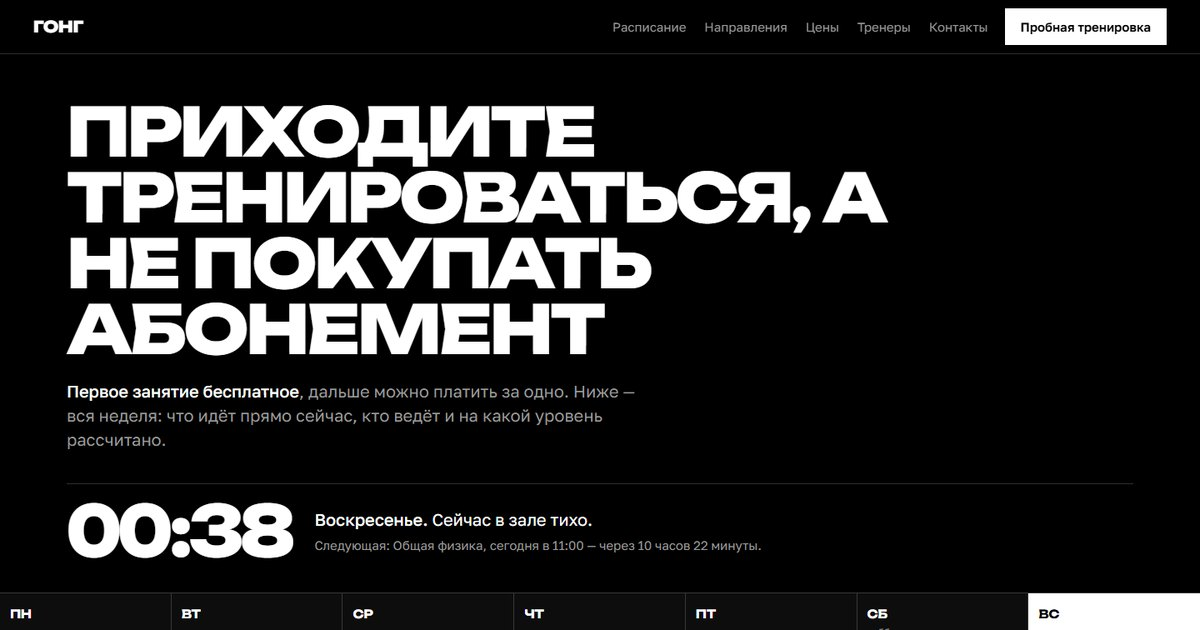
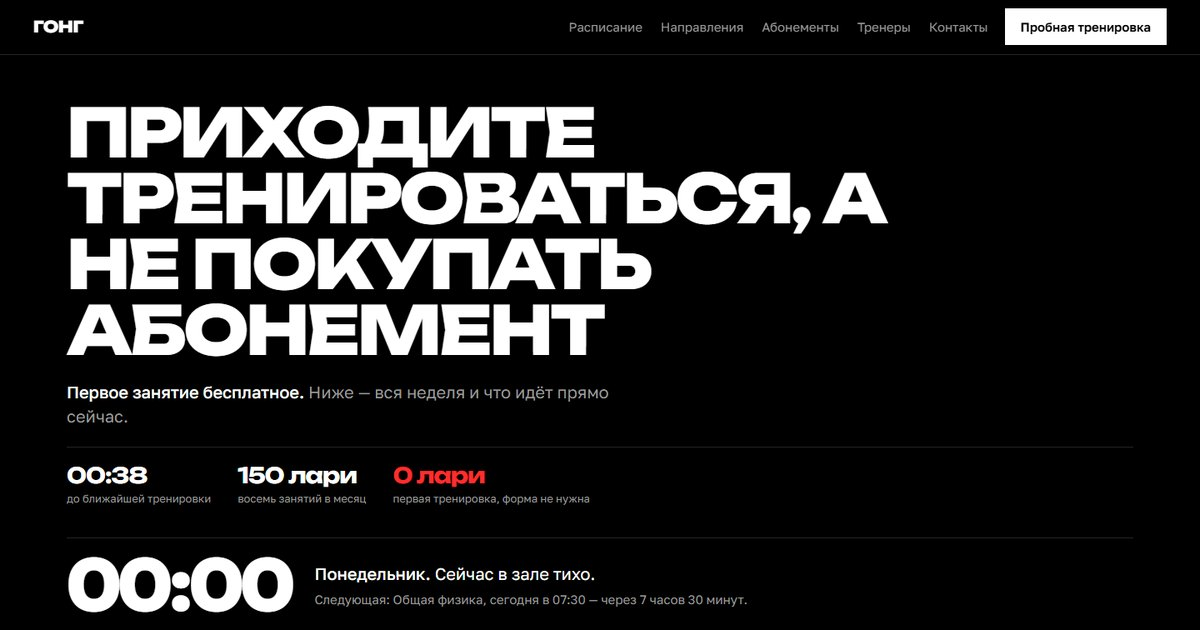
Новая подача: карточки, короче текст, движение

diff --git a/index.html b/index.html
@@ -4,7 +4,7 @@
 <meta charset="utf-8">
 <meta name="viewport" content="width=device-width, initial-scale=1, viewport-fit=cover">
 <title>Гонг — зал единоборств в Батуми (демо open-sites.io)</title>
-<meta name="description" content="Демо-сайт студии open-sites.io: зал единоборств «Гонг» на улице Чавчавадзе в Батуми. Расписание недели с живой отметкой «идёт сейчас», бокс, грэпплинг, ММА, детские группы. Бизнес вымышленный.">
+<meta name="description" content="Демо-сайт студии open-sites.io: зал единоборств «Гонг» на улице Чавчавадзе в Батуми. Расписание недели с живой отметкой «идёт сейчас», бокс, грэпплинг, ММА, детские группы. ">
 <meta name="robots" content="noindex">
 <meta name="theme-color" content="#000000">
 <link rel="canonical" href="https://fr33roman.github.io/gong/">
@@ -32,7 +32,11 @@
   --white:#fff;
   --ash:#9A9A9A;      /* второстепенный текст, 6,6:1 */
   --red:#FF2D2D;      /* только «идёт сейчас» */
-  --line:rgba(255,255,255,.18);
+  --line:rgba(255,255,255,.14);
+  --card:#141414;     /* карточка: светлее чистого чёрного */
+  --shadow-sm:0 10px 26px -14px rgba(0,0,0,.9);
+  --shadow:0 20px 44px -18px rgba(0,0,0,1);
+  --r:16px;
   --disp:"Unbounded","Segoe UI",system-ui,sans-serif;
   --text:"Golos Text","Segoe UI",system-ui,sans-serif;
   --gut:40px;
@@ -73,7 +77,7 @@ button,input,select,textarea{font:inherit;color:inherit}
 .top{position:sticky;top:0;z-index:50;display:flex;align-items:center;gap:20px;
   padding:10px var(--gut);background:rgba(0,0,0,.92);border-bottom:1px solid var(--line);
   backdrop-filter:blur(8px)}
-.mark{font-family:var(--disp);font-weight:800;font-size:19px;letter-spacing:-.02em;text-decoration:none}
+.mark{font-family:var(--disp);font-weight:800;font-size:19px;letter-spacing:-.02em;text-decoration:none;min-height:44px;display:inline-flex;align-items:center;padding:8px 0}
 .nav{display:none;gap:22px;margin-left:auto;font-size:15px;color:var(--ash)}
 .nav a{text-decoration:none}
 .nav a:hover{color:var(--white)}
@@ -93,6 +97,20 @@ h1{font-family:var(--disp);font-weight:800;font-size:clamp(30px,5.6vw,92px);line
   letter-spacing:-.045em;max-width:15ch;text-transform:uppercase}
 .hero__lead{margin-top:20px;font-size:clamp(17px,1.5vw,20px);line-height:1.45;max-width:58ch;color:var(--ash)}
 .hero__lead b{color:var(--white);font-weight:500}
+/* Три цифры рядом: самое важное читается за секунду */
+.trust{display:flex;flex-wrap:wrap;gap:14px 32px;margin-top:22px;padding-top:20px;border-top:1px solid var(--line)}
+.trust div{min-width:120px}
+.trust b{display:block;font-family:var(--disp);font-weight:700;font-size:26px;letter-spacing:-.04em;line-height:1}
+.trust b.is-red{color:var(--red)}
+.trust span{display:block;margin-top:7px;color:var(--ash);font-size:13px;line-height:1.35}
+
+/* Появление блоков: 700 мс, один раз. Без скрипта всё видно сразу. */
+.js .reveal{opacity:0;transform:translateY(24px);transition:opacity .7s ease,transform .7s ease}
+.js .reveal.in{opacity:1;transform:none}
+@media (prefers-reduced-motion:reduce){
+  .js .reveal{opacity:1;transform:none;transition:none}
+  .dir:hover,.co:hover{transform:none}
+}
 
 /* живая строка */
 .live{margin-top:clamp(24px,3vw,38px);border-top:1px solid var(--line);padding-top:18px;
@@ -152,41 +170,59 @@ h1{font-family:var(--disp);font-weight:800;font-size:clamp(30px,5.6vw,92px);line
 }
 
 /* ============ направления ============ */
-.dirs{border-top:1px solid var(--white);margin-top:24px}
-.dir{padding:18px 0;border-bottom:1px solid var(--line);display:grid;grid-template-columns:1fr;gap:6px}
-@media (min-width:860px){.dir{grid-template-columns:240px minmax(0,1fr);gap:28px;align-items:baseline}}
+.dirs{display:grid;grid-template-columns:1fr;gap:14px;margin-top:24px}
+@media (min-width:640px){.dirs{grid-template-columns:repeat(2,minmax(0,1fr))}}
+@media (min-width:1100px){.dirs{grid-template-columns:repeat(4,minmax(0,1fr))}}
+.dir{display:grid;gap:8px;background:var(--card);border:1px solid var(--line);border-radius:var(--r);
+  box-shadow:var(--shadow-sm);padding:20px 18px;transition:transform .3s ease,box-shadow .3s ease,border-color .3s ease}
+.dir:hover{transform:translateY(-6px);box-shadow:var(--shadow);border-color:rgba(255,45,45,.45)}
 .dir p{color:var(--ash);font-size:15px;line-height:1.5}
 
 /* ============ цены ============ */
-.rows{border-top:1px solid var(--white);margin-top:24px}
-.r{display:grid;grid-template-columns:minmax(0,1fr) auto;grid-template-areas:"n s" "a b";
-  column-gap:16px;row-gap:3px;padding:14px 0;border-bottom:1px solid var(--line);align-items:baseline}
+.rows{max-width:900px;margin-top:24px;background:var(--card);border:1px solid var(--line);
+  border-radius:var(--r);box-shadow:var(--shadow-sm);overflow:hidden}
+/* Наводишь на строку — соседние гаснут: помогает не потерять нужную глазами */
+.rows:hover .r{opacity:.42}
+.rows .r:hover{opacity:1;background:rgba(255,45,45,.07)}
+@media (hover:none){.rows:hover .r{opacity:1}}
+.r{display:grid;grid-template-columns:minmax(0,1fr) auto;grid-template-areas:"n s" "a s" "b s";
+  column-gap:16px;row-gap:2px;padding:14px 20px;border-bottom:1px solid var(--line);align-items:baseline;
+  transition:opacity .3s ease,background .3s ease}
+.r:last-child{border-bottom:0}
 .r__n{grid-area:n;font-size:17px;font-weight:500;line-height:1.25}
-.r__s{grid-area:s;font-family:var(--disp);font-weight:700;font-size:17px;white-space:nowrap;letter-spacing:-.03em}
+.r__s{grid-area:s;align-self:center;font-family:var(--disp);font-weight:700;font-size:20px;
+  white-space:nowrap;letter-spacing:-.03em}
 .r__a{grid-area:a}
-.r__b{grid-area:b;text-align:right}
+.r__b{grid-area:b}
 .r__a,.r__b{color:var(--ash);font-size:13px;line-height:1.35}
 @media (min-width:760px){
-  .r{grid-template-columns:minmax(0,1fr) 250px 170px 130px;grid-template-areas:"n a b s";row-gap:0}
+  .r{grid-template-columns:minmax(0,1fr) 230px 150px 120px;grid-template-areas:"n a b s";row-gap:0;padding:14px 22px}
   .r__a,.r__b{font-size:14px;text-align:left}
   .r__s{text-align:right;font-size:19px}
 }
 
 /* ============ тренеры ============ */
-.coaches{border-top:1px solid var(--white);margin-top:24px}
-.co{display:grid;grid-template-columns:minmax(0,1fr) auto;gap:2px 16px;padding:16px 0;
-  border-bottom:1px solid var(--line);align-items:baseline}
+.coaches{display:grid;grid-template-columns:1fr;gap:14px;margin-top:24px}
+@media (min-width:620px){.coaches{grid-template-columns:repeat(2,minmax(0,1fr))}}
+@media (min-width:1100px){.coaches{grid-template-columns:repeat(4,minmax(0,1fr))}}
+.co{display:grid;background:var(--card);border:1px solid var(--line);border-radius:var(--r);
+  box-shadow:var(--shadow-sm);padding:20px 18px;gap:6px;
+  transition:transform .3s ease,box-shadow .3s ease}
+.co:hover{transform:translateY(-6px);box-shadow:var(--shadow)}
 .co__n{font-family:var(--disp);font-weight:700;font-size:clamp(22px,2.6vw,34px);letter-spacing:-.04em;line-height:1}
-.co__d{color:var(--ash);font-size:14px;white-space:nowrap}
-.co__s{grid-column:1/-1;color:var(--ash);font-size:15px}
-@media (min-width:760px){.co{grid-template-columns:250px minmax(0,1fr) auto}.co__s{grid-column:2/3}}
+.co__d{display:inline-block;margin-top:8px;padding:5px 11px;border-radius:999px;
+  background:rgba(255,255,255,.08);color:var(--white);font-size:13px;white-space:nowrap;justify-self:start}
+.co__s{color:var(--ash);font-size:15px;line-height:1.4}
 
 /* ============ зал ============ */
 .hall{display:grid;grid-template-columns:1fr;gap:26px;margin-top:24px}
 @media (min-width:900px){.hall{grid-template-columns:minmax(0,1fr) minmax(0,1fr);gap:40px;align-items:start}}
-.hall ul{border-top:1px solid var(--white)}
-.hall li{padding:13px 0;border-bottom:1px solid var(--line);font-size:16px}
-.hall img{width:100%;object-fit:cover;filter:grayscale(1) contrast(1.22) brightness(.86)}
+.hall ul{display:grid;gap:10px}
+.hall li{position:relative;background:var(--card);border:1px solid var(--line);border-radius:12px;
+  padding:14px 16px 14px 40px;font-size:16px;line-height:1.4}
+.hall li::before{content:"";position:absolute;left:16px;top:20px;width:11px;height:2px;background:var(--red)}
+.hall img{width:100%;object-fit:cover;border-radius:var(--r);
+  filter:grayscale(1) contrast(1.18) brightness(.9)}
 .hall .ph1 img{height:clamp(200px,26vw,320px)}
 .hall .ph2 img{height:clamp(140px,15vw,190px);margin-top:10px}
 figcaption{margin-top:10px;color:var(--ash);font-size:13px;line-height:1.45}
@@ -215,13 +251,14 @@ fieldset.f{border:0;padding:0;margin:0}
 .consent label{padding:10px 0;font-size:15px;line-height:1.5;cursor:pointer}
 .send{grid-column:1/-1;display:flex;flex-wrap:wrap;align-items:center;gap:14px}
 .send__hint{color:var(--ash);font-size:14px}
-.done{background:var(--coal);border:1px solid var(--line);padding:28px}
+.done{background:var(--card);border:1px solid var(--line);border-radius:var(--r);
+  box-shadow:var(--shadow-sm);padding:28px}
 .done__b{font-family:var(--disp);font-weight:700;font-size:clamp(22px,3vw,32px);letter-spacing:-.03em;line-height:1.1}
 .done p+p{margin-top:12px}
 .noscript{grid-column:1/-1;color:var(--ash);font-size:15px}
-.side dl{border-top:1px solid var(--white)}
-.side div{padding:12px 0;border-bottom:1px solid var(--line)}
-.side dt{color:var(--ash);font-size:13px}
+.side dl{display:grid;gap:10px}
+.side div{background:var(--card);border:1px solid var(--line);border-radius:12px;padding:14px 16px}
+.side dt{color:var(--red);font-size:12px;letter-spacing:.1em;text-transform:uppercase}
 .side dd{margin-top:3px;font-size:16px;line-height:1.4}
 
 /* ============ подвал ============ */
@@ -241,7 +278,7 @@ fieldset.f{border:0;padding:0;margin:0}
   <nav class="nav" aria-label="Разделы">
     <a href="#raspisanie">Расписание</a>
     <a href="#napravleniya">Направления</a>
-    <a href="#tseny">Цены</a>
+    <a href="#tseny">Абонементы</a>
     <a href="#trenery">Тренеры</a>
     <a href="#zapis">Контакты</a>
   </nav>
@@ -252,8 +289,13 @@ fieldset.f{border:0;padding:0;margin:0}
   <!-- ============ 1. герой ============ -->
   <section class="hero" aria-labelledby="h1">
     <h1 id="h1">Приходите тренироваться, а не покупать абонемент</h1>
-    <p class="hero__lead"><b>Первое занятие бесплатное</b>, дальше можно платить за одно.
-      Ниже — вся неделя: что идёт прямо сейчас, кто ведёт и на какой уровень рассчитано.</p>
+    <p class="hero__lead"><b>Первое занятие бесплатное.</b> Ниже — вся неделя и что идёт прямо сейчас.</p>
+
+    <div class="trust">
+      <div><b>00:38</b><span>до ближайшей тренировки</span></div>
+      <div><b>150 лари</b><span>восемь занятий в месяц</span></div>
+      <div><b class="is-red">0 лари</b><span>первая тренировка, форма не нужна</span></div>
+    </div>
 
     <div class="live" id="live" hidden>
       <p class="live__t" id="liveTime">—</p>
@@ -326,39 +368,36 @@ fieldset.f{border:0;padding:0;margin:0}
       </div>
 
     </div>
-    <p class="week__cap">Время батумское. Зал работает с 7:00 до 22:00, в воскресенье до 18:00.
-      Расписание на неделю не меняется — если тренер заболел, пишем в чат группы.</p>
+    <p class="week__cap">Время батумское. Зал открыт 7:00–22:00, в воскресенье до 18:00.</p>
   </section>
 
   <!-- ============ 3. направления ============ -->
-  <section class="sec" id="napravleniya" aria-labelledby="h-n">
+  <section class="sec reveal" id="napravleniya" aria-labelledby="h-n">
     <div class="sec__in">
-      <h2 id="h-n">Что здесь есть</h2>
+      <h2 id="h-n">Направления</h2>
       <ul class="dirs">
         <li class="dir"><h3>Бокс, взрослые</h3>
-          <p>90 минут: разминка, лапы, мешки, спарринг по желанию. Берём с нуля. Нужны форма и вода —
-            перчатки и бинты первый месяц даём свои.</p></li>
+          <p>90 минут: разминка, лапы, мешки, спарринг по желанию. Берём с нуля.</p></li>
         <li class="dir"><h3>Кикбоксинг</h3>
-          <p>90 минут, руки и ноги. Просим сначала месяц бокса или свой опыт: иначе травмы на ровном месте.</p></li>
+          <p>90 минут, руки и ноги. Нужен месяц бокса или свой опыт.</p></li>
         <li class="dir"><h3>Грэпплинг</h3>
           <p>90 минут в партере, без ударов. Самое безопасное, с чего взрослому можно начать.</p></li>
         <li class="dir"><h3>ММА</h3>
-          <p>90 минут, стойка и партер вместе. Только тем, кто уже год занимается одним из направлений.</p></li>
+          <p>90 минут, стойка и партер. Тем, кто занимается год и больше.</p></li>
         <li class="dir"><h3>Женская группа</h3>
           <p>60 минут: бокс без спаррингов, много техники и физики. Ведёт Нана.</p></li>
         <li class="dir"><h3>Дети 7–11 и 12–15</h3>
-          <p>60 минут. Половина занятия — координация и общая физика, половина — техника. Спарринги —
-            только в защите и только по готовности.</p></li>
+          <p>60 минут: половина — физика и координация, половина — техника. Спарринги только в защите.</p></li>
         <li class="dir"><h3>Общая физика</h3>
-          <p>60 минут утром, без ударов. Для тех, кому нужна форма, а не соревнования.</p></li>
+          <p>60 минут утром, без ударов. Для формы, не для соревнований.</p></li>
       </ul>
     </div>
   </section>
 
   <!-- ============ 4. цены ============ -->
-  <section class="sec" id="tseny" aria-labelledby="h-t">
+  <section class="sec reveal" id="tseny" aria-labelledby="h-t">
     <div class="sec__in">
-      <h2 id="h-t">Цены</h2>
+      <h2 id="h-t">Абонементы</h2>
       <ul class="rows">
         <li class="r"><span class="r__n">Первая тренировка</span><span class="r__a">знакомство и разминка</span><span class="r__b">любое направление</span><span class="r__s">бесплатно</span></li>
         <li class="r"><span class="r__n">Разовое занятие</span><span class="r__a">любое направление</span><span class="r__b">без записи</span><span class="r__s">25 лари</span></li>
@@ -367,32 +406,29 @@ fieldset.f{border:0;padding:0;margin:0}
         <li class="r"><span class="r__n">Детский абонемент, восемь занятий</span><span class="r__a">группа по возрасту</span><span class="r__b">месяц</span><span class="r__s">120 лари</span></li>
         <li class="r"><span class="r__n">Персональная тренировка</span><span class="r__a">один на один, 60 минут</span><span class="r__b">по договорённости</span><span class="r__s">80 лари</span></li>
       </ul>
-      <p class="note" style="margin-top:20px">Абонемент не сгорает молча. Заболели или уехали —
-        напишите в чат, заморозим до десяти дней, это бесплатно.</p>
+      <p class="note" style="margin-top:20px">Заболели или уехали — заморозим абонемент до десяти дней, бесплатно.</p>
     </div>
   </section>
 
   <!-- ============ 5. тренеры ============ -->
-  <section class="sec" id="trenery" aria-labelledby="h-c">
+  <section class="sec reveal" id="trenery" aria-labelledby="h-c">
     <div class="sec__in">
-      <h2 id="h-c">Кто ведёт</h2>
+      <h2 id="h-c">Тренеры</h2>
       <ul class="coaches">
         <li class="co"><span class="co__n">Давид</span><span class="co__s">бокс, кикбоксинг, открытый спарринг</span><span class="co__d">пн, ср, чт, сб</span></li>
         <li class="co"><span class="co__n">Ираклий</span><span class="co__s">грэпплинг, ММА</span><span class="co__d">вт, пт, вс</span></li>
         <li class="co"><span class="co__n">Нана</span><span class="co__s">женская группа, общая физика</span><span class="co__d">утро пн–пт, вт, чт, вс</span></li>
         <li class="co"><span class="co__n">Георгий</span><span class="co__s">детские группы</span><span class="co__d">пн–сб</span></li>
       </ul>
-      <p class="note" style="margin-top:18px">На сайте вашего зала здесь будут фотографии тренеров
-        и их регалии. В демо мы не подставляем чужие лица.</p>
     </div>
   </section>
 
   <!-- ============ 6. зал ============ -->
-  <section class="sec" id="zal" aria-labelledby="h-z">
+  <section class="sec reveal" id="zal" aria-labelledby="h-z">
     <div class="sec__in">
       <div class="hall">
         <div>
-          <h2 id="h-z">Зал</h2>
+          <h2 id="h-z">Где тренируемся</h2>
           <ul style="margin-top:24px">
             <li>Ринг пять на пять метров</li>
             <li>Татами сто квадратных метров</li>
@@ -404,14 +440,13 @@ fieldset.f{border:0;padding:0;margin:0}
         <figure>
           <div class="ph1"><img src="https://images.unsplash.com/photo-1716306886418-f84f6d4c2f3a?auto=format&fit=crop&w=1400&q=74" alt="Ряд боксёрских мешков в зале" width="1400" height="930" loading="lazy" decoding="async"></div>
           <div class="ph2"><img src="https://images.unsplash.com/photo-1630174385975-a406e87cd47c?auto=format&fit=crop&w=1400&q=74" alt="Мешок на цепях у светлой стены" width="1400" height="930" loading="lazy" decoding="async"></div>
-          <figcaption>Кадры из фотобанка, подобраны под концепт. На сайте вашего зала здесь будет своя съёмка.</figcaption>
         </figure>
       </div>
     </div>
   </section>
 
   <!-- ============ 7. запись ============ -->
-  <section class="sec" id="zapis" aria-labelledby="h-b">
+  <section class="sec reveal" id="zapis" aria-labelledby="h-b">
     <div class="sec__in">
       <div class="book">
         <div>
@@ -456,15 +491,11 @@ fieldset.f{border:0;padding:0;margin:0}
               <button class="btn" type="submit" id="send" disabled>Записаться на пробную</button>
               <p class="send__hint" id="send-hint">Кнопка заработает, когда отметите согласие.</p>
             </div>
-            <noscript><p class="noscript">Это демо-сайт, форма не отправляет данные.
-              Сайт для своего зала: <a class="link" href="https://t.me/open_sites">t.me/open_sites</a></p></noscript>
           </form>
 
           <div class="done" id="done" role="status" tabindex="-1" hidden>
-            <p class="done__b">Это демо-сайт.</p>
-            <p>Заявка никуда не ушла — форма показывает, как это будет выглядеть у вас.</p>
-            <p>Хотите такой же сайт для своего зала?
-              <a class="link" href="https://t.me/open_sites" target="_blank" rel="noopener">t.me/open_sites</a></p>
+            <p class="done__b">Записали.</p>
+            <p>Тренер напишет в течение дня и скажет, что взять с собой.</p>
             <p><button class="btn btn--line" type="button" id="again" style="margin-top:6px">Вернуться к форме</button></p>
           </div>
         </div>
@@ -489,16 +520,12 @@ fieldset.f{border:0;padding:0;margin:0}
       <p class="note" style="margin-top:8px">Зал единоборств.<br>Улица Чавчавадзе, Батуми</p>
     </div>
     <div>
-      <p class="plate">Демонстрационная работа студии <span class="nw">open-sites.io</span>.
-        Бизнес вымышленный, цены — ориентир по рынку Батуми.
-        <a class="link" href="https://t.me/open_sites" target="_blank" rel="noopener">Сайт для своего зала: t.me/open_sites</a></p>
-      <p class="credits" style="margin-top:14px">Фотографии из фотобанка Unsplash, подобраны под концепт.</p>
     </div>
   </div>
 </footer>
 
 <script type="application/ld+json">
-{"@context":"https://schema.org","@type":"SportsActivityLocation","name":"Гонг","description":"Зал единоборств в Батуми. Демонстрационный сайт студии open-sites.io, бизнес вымышленный.","url":"https://fr33roman.github.io/gong/","image":"https://fr33roman.github.io/gong/og.jpg","priceRange":"25–220 GEL","address":{"@type":"PostalAddress","streetAddress":"улица Чавчавадзе","addressLocality":"Батуми","addressCountry":"GE"},"openingHours":["Mo-Sa 07:00-22:00","Su 11:00-18:00"],"availableLanguage":["ka","ru","en"]}
+{"@context":"https://schema.org","@type":"SportsActivityLocation","name":"Гонг","description":"Зал единоборств в Батуми: бокс, кикбоксинг, грэпплинг, ММА, детские и женские группы.","url":"https://fr33roman.github.io/gong/","image":"https://fr33roman.github.io/gong/og.jpg","priceRange":"25–220 GEL","address":{"@type":"PostalAddress","streetAddress":"улица Чавчавадзе","addressLocality":"Батуми","addressCountry":"GE"},"openingHours":["Mo-Sa 07:00-22:00","Su 11:00-18:00"],"availableLanguage":["ka","ru","en"]}
 </script>
 
 <script>
@@ -624,6 +651,20 @@ fieldset.f{border:0;padding:0;margin:0}
   layout();
   if (narrow.addEventListener) narrow.addEventListener('change', layout);
   setInterval(function () { today = refresh(); }, 30000);
+
+  /* ---- появление блоков при прокрутке ---- */
+  var revs = [].slice.call(document.querySelectorAll('.reveal'));
+  if (reduce || !('IntersectionObserver' in window)) {
+    revs.forEach(function (el) { el.classList.add('in'); });
+  } else {
+    var io = new IntersectionObserver(function (es) {
+      es.forEach(function (e) {
+        if (e.isIntersecting) { e.target.classList.add('in'); io.unobserve(e.target); }
+      });
+    }, { threshold: .12, rootMargin: '0px 0px -40px 0px' });
+    revs.forEach(function (el) { io.observe(el); });
+    setTimeout(function () { revs.forEach(function (el) { el.classList.add('in'); }); }, 1500);
+  }
 
   /* ---- форма ---- */
   var form = document.getElementById('form');
